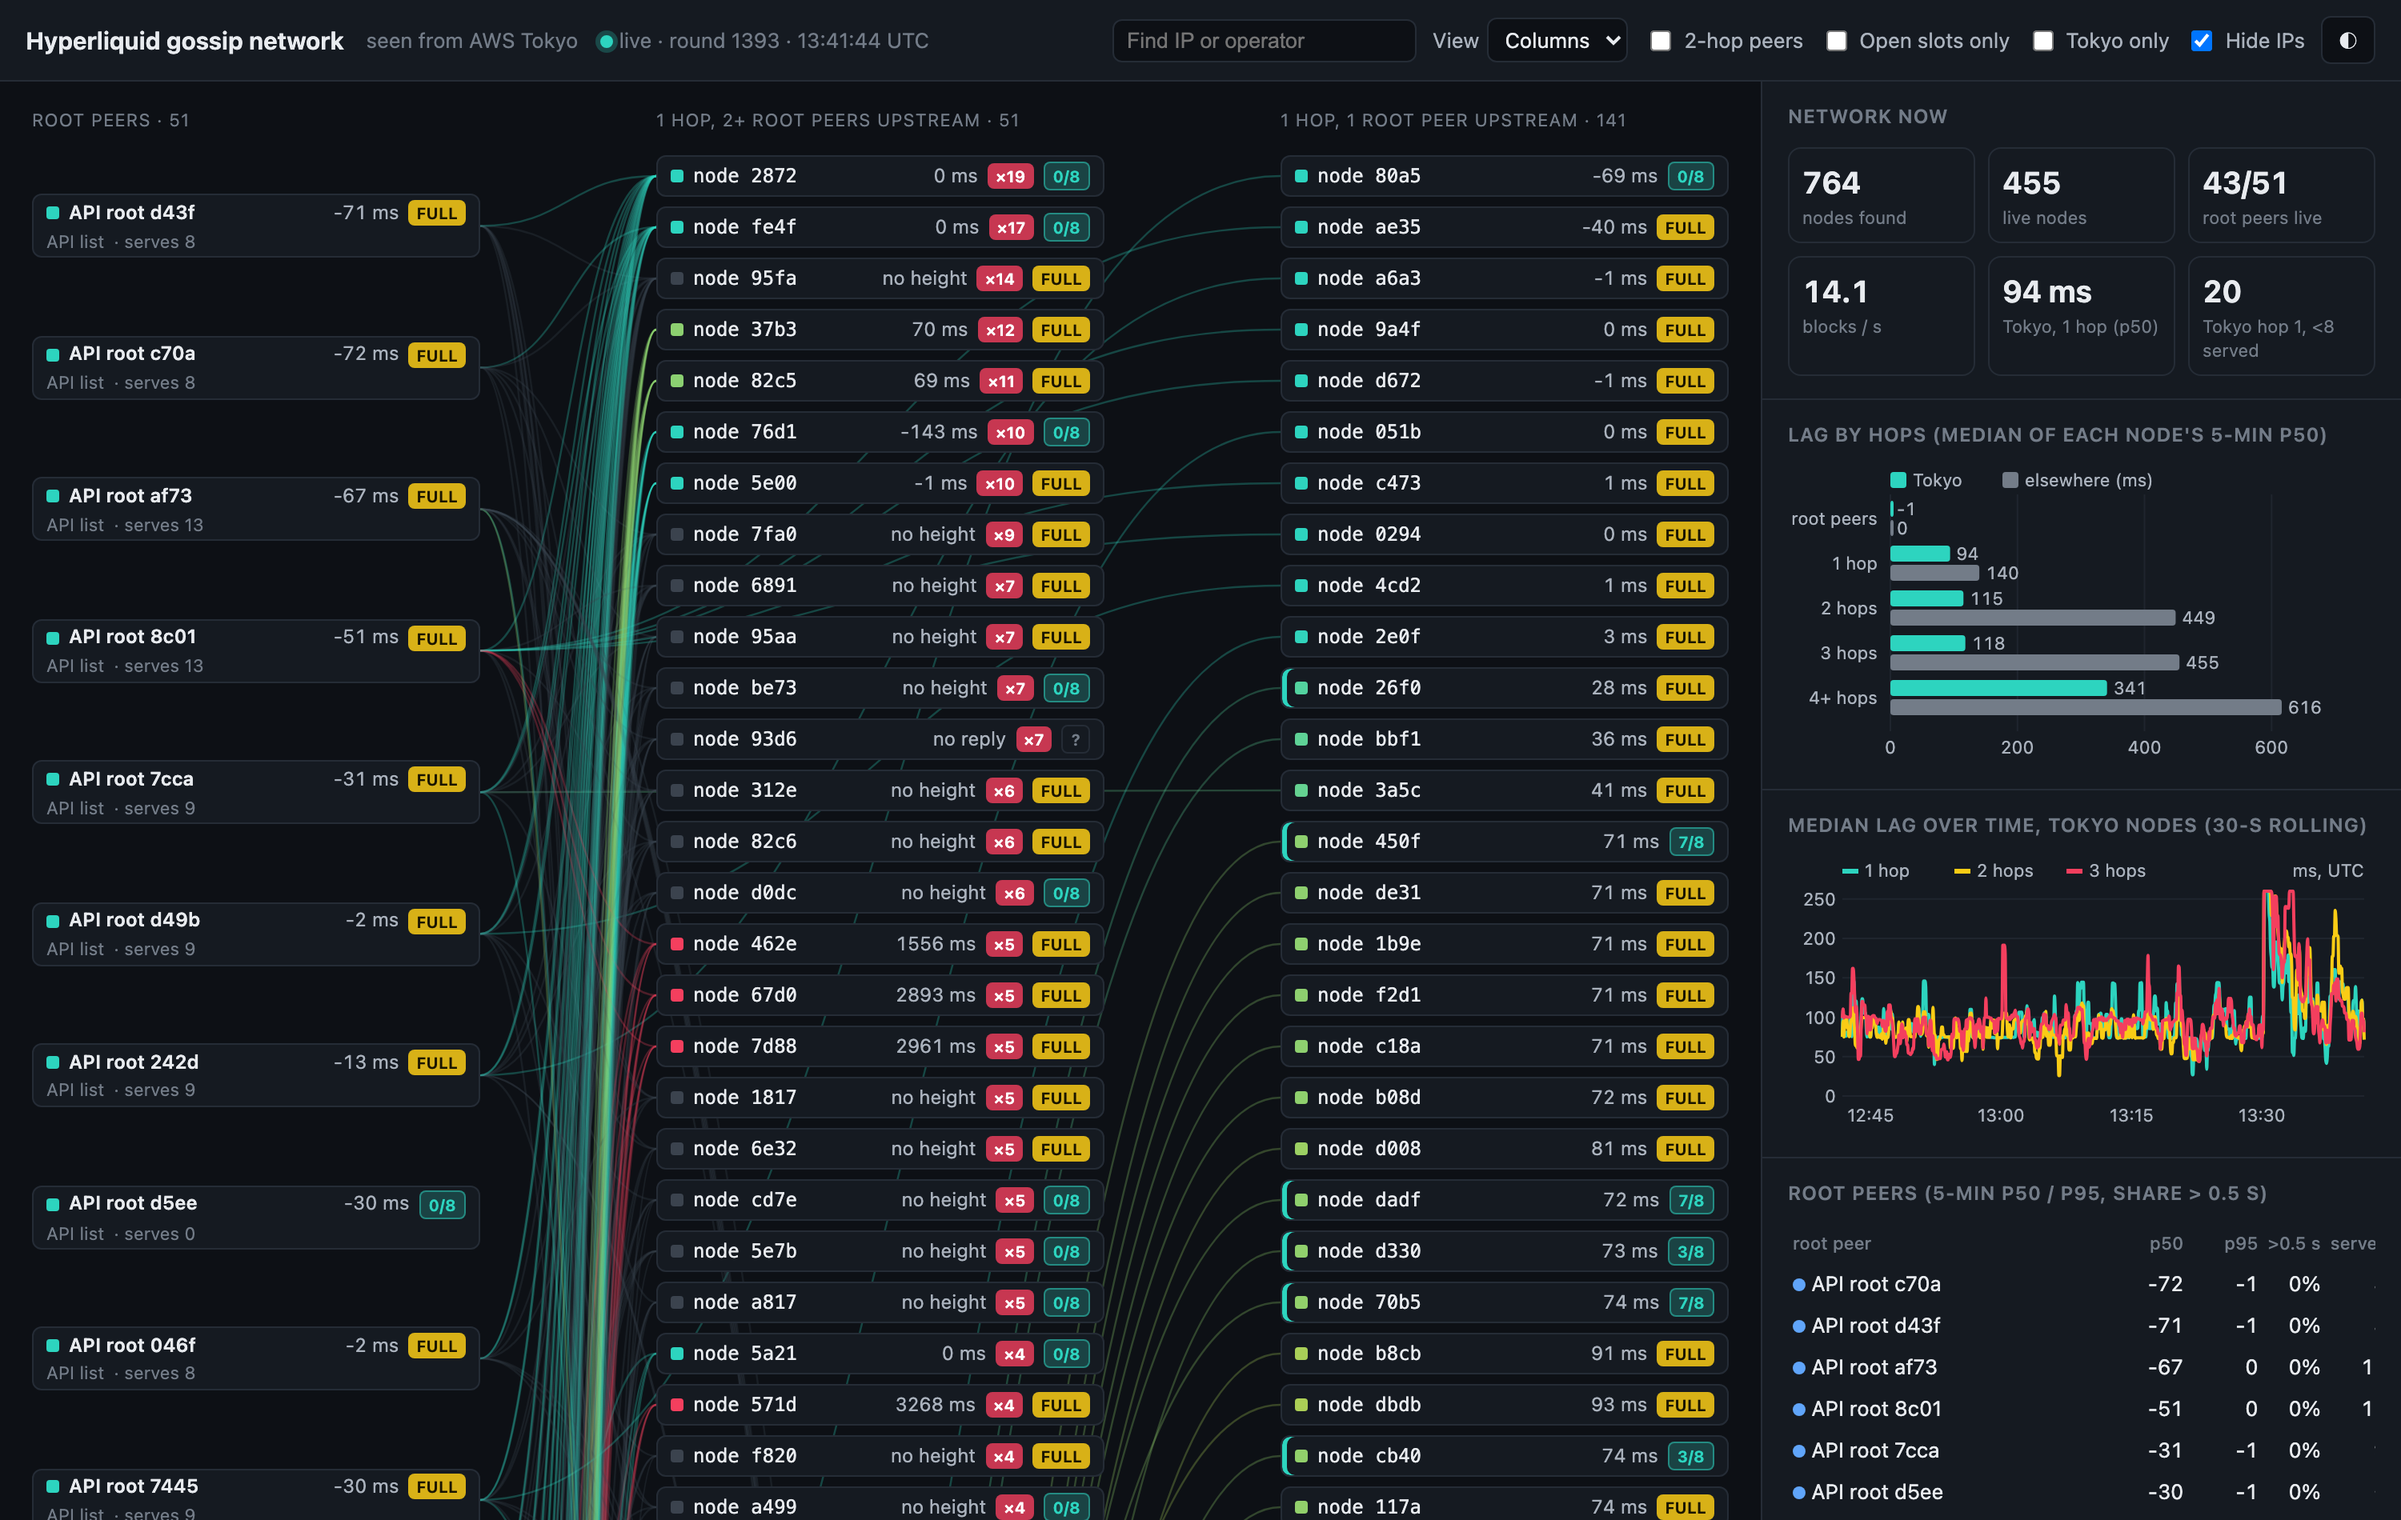
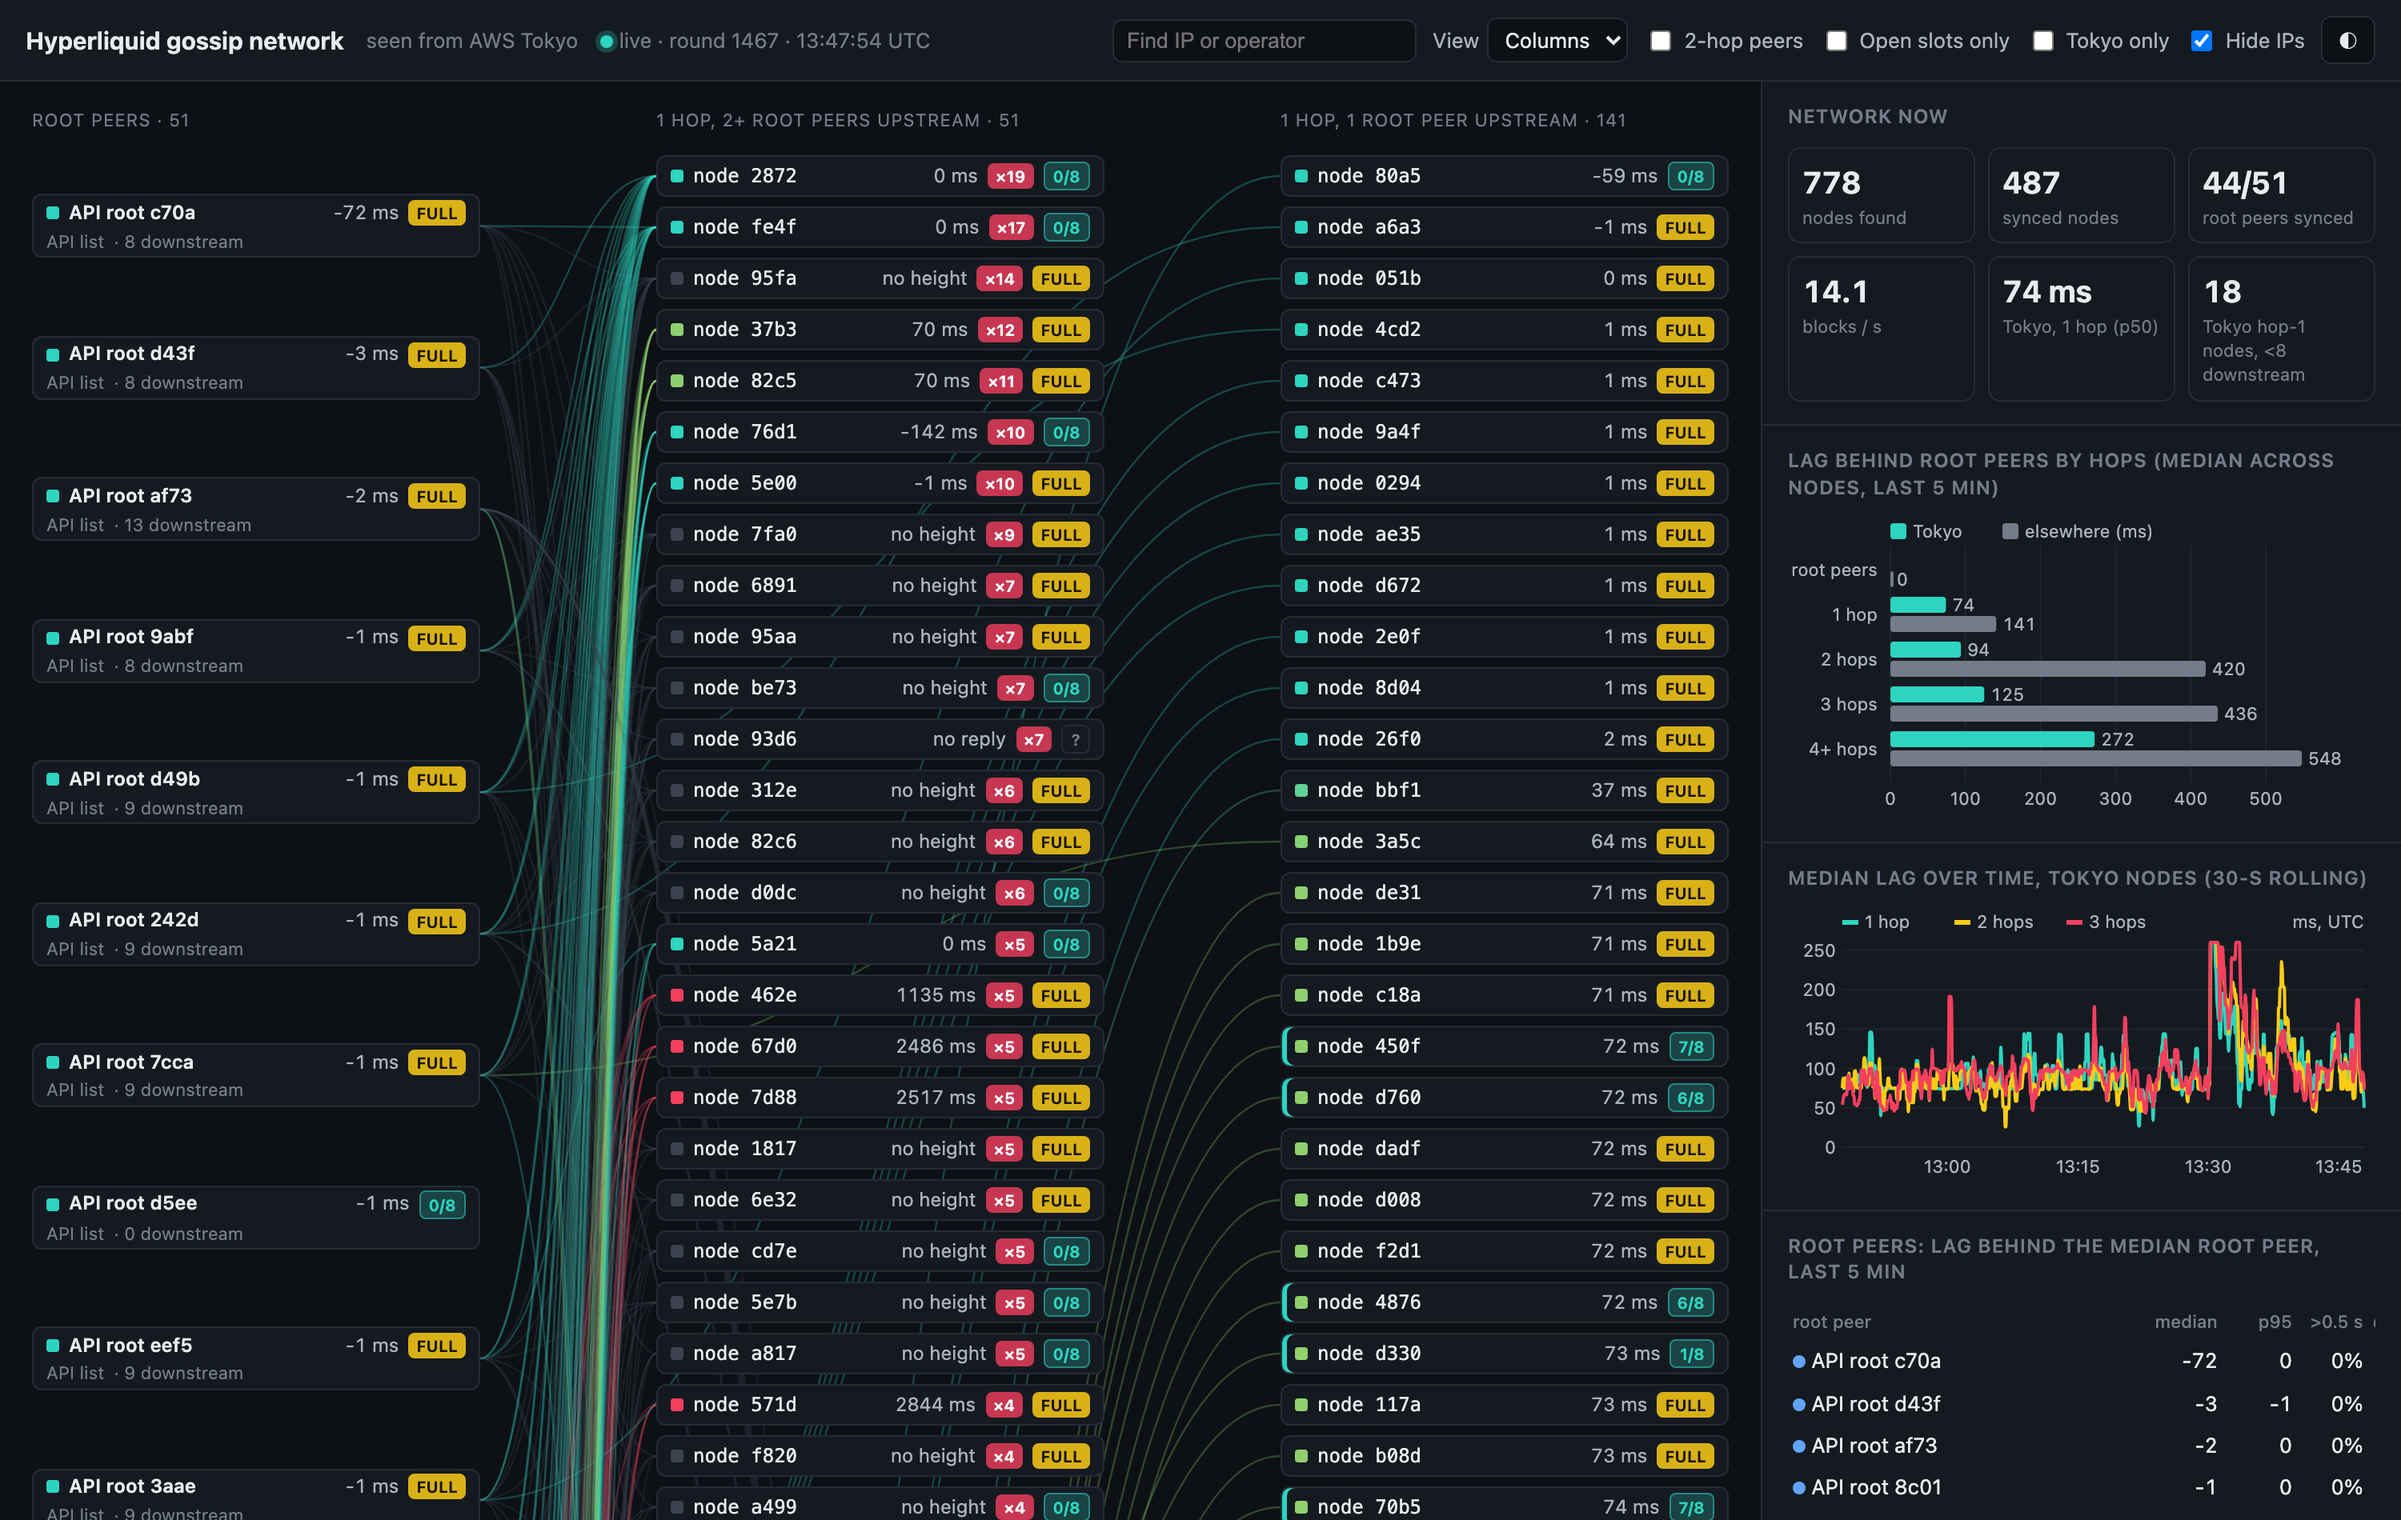
Re-take the article 003 dashboard figure with conventional labels
Claude-Session: https://claude.ai/code/session_01J1XFVkyFFdQmsV45gKMzGd

diff --git a/003-hyperliquid-peering/README.md b/003-hyperliquid-peering/README.md
@@ -98,7 +98,7 @@ Running the crawler by hand and reading its output was fine for one article but 
 
 ![Our internal dashboard of the gossip network](assets/fig9-dashboard.png)
 
-*Figure 9. Our internal gossip dashboard, with IP addresses hidden. Root peers are on the left, then the nodes streaming from two or more root peers (with how many) and from just one. Each card shows the node's median lag behind the root peers over the last five minutes and whether it still has free slots, and each link is coloured by the lag of the node it feeds. Nodes two or more hops down are hidden unless switched on. Screenshot taken at 13:41 UTC on 2026-11-13.*
+*Figure 9. Our internal gossip dashboard, with IP addresses hidden. Root peers are on the left, then the nodes streaming from two or more root peers (with how many) and from just one. Each card shows the node's median lag behind the root peers over the last five minutes and whether it still has free slots, and each link is coloured by the lag of the node it feeds. Nodes two or more hops down are hidden unless switched on. Screenshot taken at 13:47 UTC on 2026-11-13.*
 
 Hovering over a node highlights its path up to the root peers and the nodes it serves; clicking it shows its lag over the last few minutes. A side panel lists the Tokyo nodes one hop below a root peer that still have free slots, ranked by their lag over the last five minutes, and can write them out as an `override_gossip_config.json`. We use it to pick peers before we start or restart a node, and to check whether the root peer above our node has started to fall behind.
 
